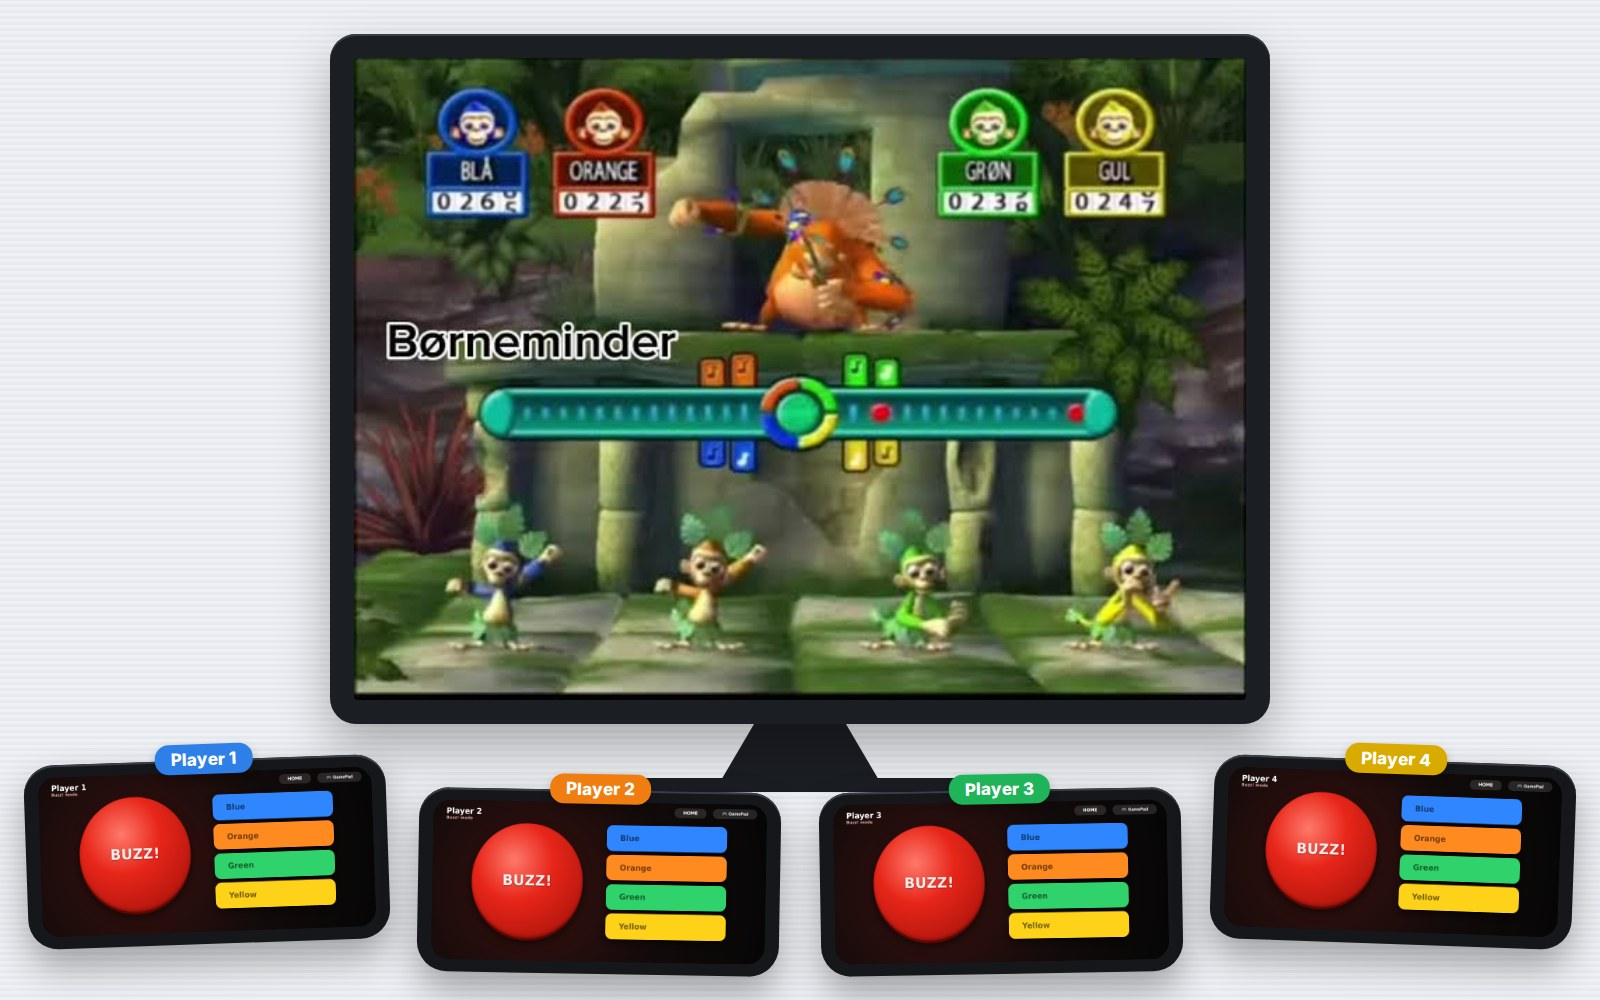
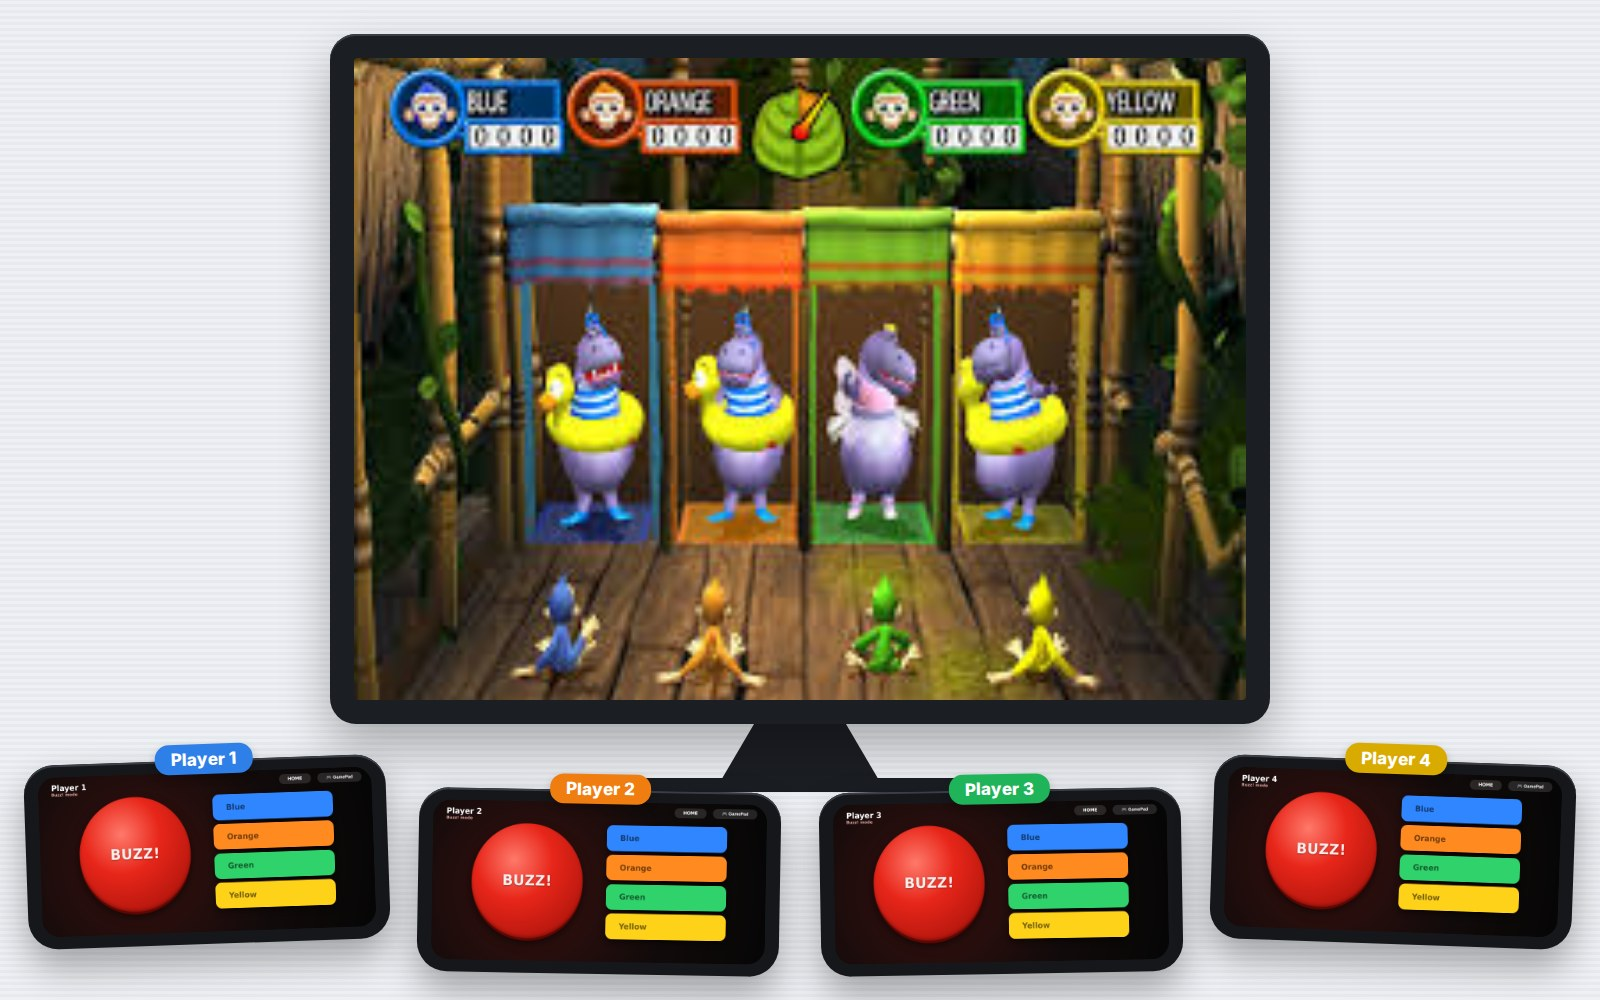
Buzz! screenshot: new TV picture
Claude-Session: https://claude.ai/code/session_01Houbr4V8RL79CZpbPAiHaa

diff --git a/docs/index.html b/docs/index.html
@@ -338,7 +338,7 @@
       <h2>Buzz! night, with up to 8 phones</h2>
       <p class="sub">Start a PS2 Buzz! quiz game and every phone becomes a buzzer: the big red button and the four coloured answers.</p>
       <img class="shot" style="margin-bottom:28px" src="buzz.jpg" width="1600" height="1000" loading="lazy"
-           alt="A Buzz! quiz game on the TV with four players, and four phones below it, each showing a big red BUZZ! button and blue, orange, green and yellow answer buttons">
+           alt="A Buzz! Junior game on the TV with blue, orange, green and yellow players, and four phones below it, each showing a big red BUZZ! button and blue, orange, green and yellow answer buttons">
       <div class="split">
         <img class="shot" src="buzz-phone.png" width="1688" height="780" loading="lazy"
              alt="The phone in Buzz! mode: Player 1, a big red BUZZ! button, the four answer buttons, and HOME and GamePad buttons">
